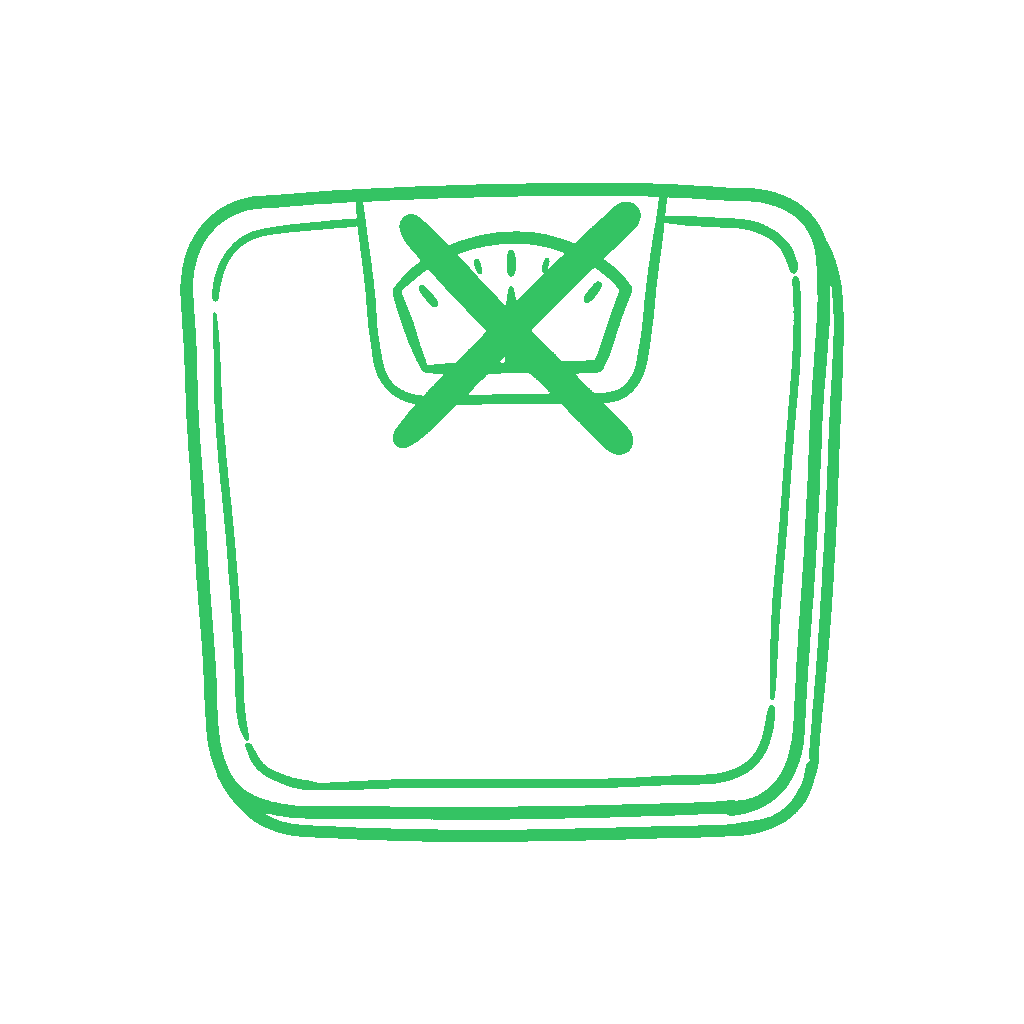
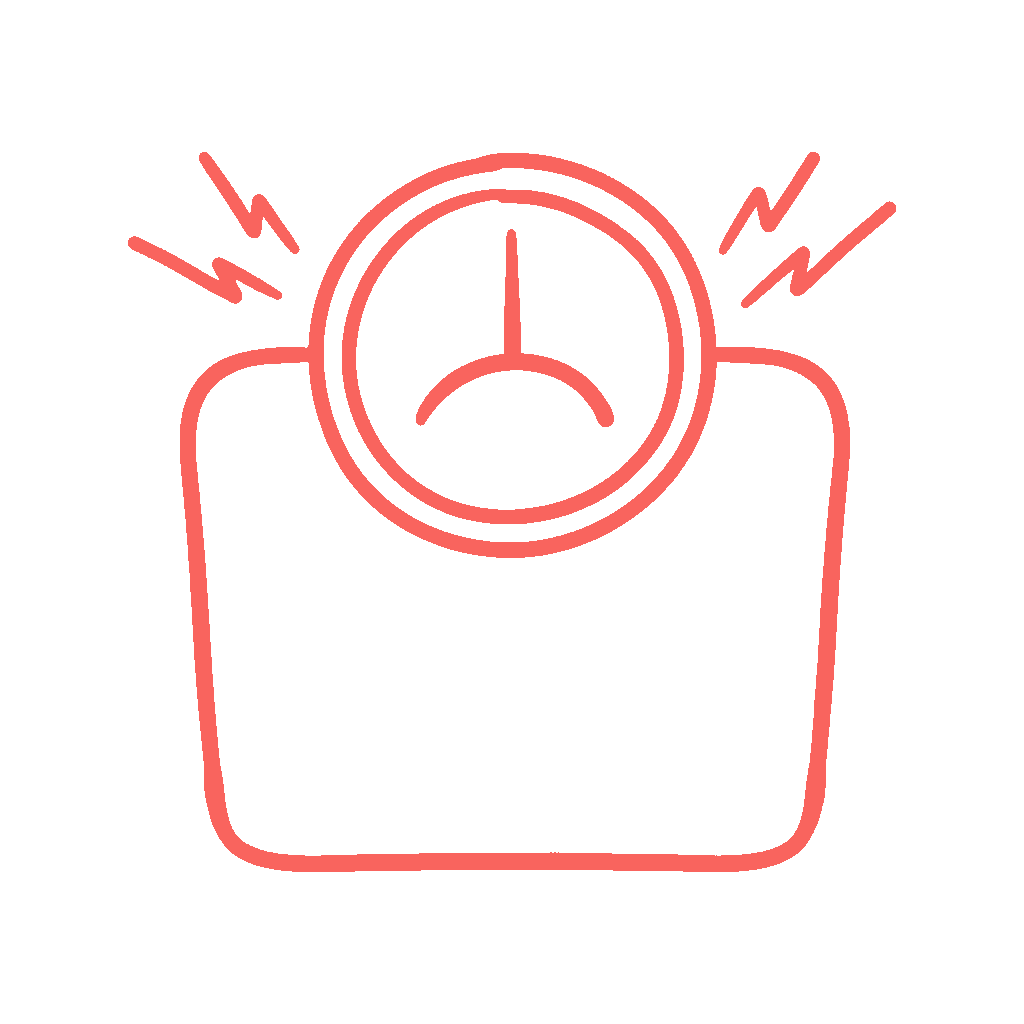
prompt color changes

Changed region(s): [[0.125, 0.125, 0.875, 0.875]]

diff --git a/dadfit/dadfit-content/Carousels/scripts/process_doodles.py b/dadfit/dadfit-content/Carousels/scripts/process_doodles.py
@@ -5,7 +5,8 @@ process_doodles.py — DadFit Doodle Post-Processor
 For every PNG in Carousels/data/batch_{batch_no}/doodles/:
   1. Detect background by sampling 10×10 pixels at all four corners
   2. Make every pixel within `threshold` color-distance of the bg → fully transparent
-  3. Recolor remaining (ink) pixels to brand green #34C363
+  3. Recolor remaining (ink) pixels to their median color (auto-detected)
+     — preserves green doodles as green, red/orange doodles as red/orange
 
 Usage:
   python3 process_doodles.py                          # batch 1
@@ -23,9 +24,8 @@ from PIL import Image
 
 # ── Config ────────────────────────────────────────────────────────────────────
 
-BRAND_GREEN  = (0x34, 0xC3, 0x63)   # #34C363
-SAMPLE_SIZE  = 10                    # corner sample area (pixels)
-DEFAULT_THRESHOLD = 30               # Euclidean RGB distance cutoff
+SAMPLE_SIZE       = 10   # corner sample area (pixels)
+DEFAULT_THRESHOLD = 30   # Euclidean RGB distance cutoff
 
 BASE_DIR = os.path.dirname(os.path.dirname(os.path.abspath(__file__)))  # Carousels/
 
@@ -50,9 +50,21 @@ def detect_bg_color(arr: np.ndarray) -> tuple:
 
 # ── Core processing ───────────────────────────────────────────────────────────
 
+def detect_ink_color(arr: np.ndarray, is_ink: np.ndarray) -> tuple:
+    """
+    Return the median RGB of all ink pixels as (r, g, b) ints.
+    Median is more robust than mean against anti-aliasing outliers.
+    """
+    ink_pixels = arr.astype(np.uint8)[is_ink]   # (n, 3)
+    r = int(np.median(ink_pixels[:, 0]))
+    g = int(np.median(ink_pixels[:, 1]))
+    b = int(np.median(ink_pixels[:, 2]))
+    return (r, g, b)
+
+
 def process_image(path: str, threshold: int, dry_run: bool = False) -> dict:
     """
-    Load image, remove background, recolor ink to brand green.
+    Load image, remove background, recolor ink to its own median color.
     Overwrites the original file as RGBA PNG.
     """
     img = Image.open(path).convert("RGB")
@@ -64,22 +76,26 @@ def process_image(path: str, threshold: int, dry_run: bool = False) -> dict:
     bg_arr = np.array(bg, dtype=np.float32)  # shape (3,)
 
     # 2. Euclidean distance of each pixel from background color
-    diff = arr - bg_arr                      # (h, w, 3)
+    diff = arr - bg_arr                        # (h, w, 3)
     dist = np.sqrt(np.sum(diff ** 2, axis=2))  # (h, w)
 
-    # 3. Build RGBA output
-    out = np.zeros((h, w, 4), dtype=np.uint8)
-
-    is_bg  = dist <= threshold               # True where pixel ≈ background
+    # 3. Classify pixels
+    is_bg  = dist <= threshold
     is_ink = ~is_bg
+
+    # 4. Auto-detect ink color from the minority (ink) pixels
+    ink_color = detect_ink_color(arr, is_ink)
+
+    # 5. Build RGBA output
+    out = np.zeros((h, w, 4), dtype=np.uint8)
 
     # Background → fully transparent
     out[is_bg, 3] = 0
 
-    # Ink → brand green, fully opaque
-    out[is_ink, 0] = BRAND_GREEN[0]
-    out[is_ink, 1] = BRAND_GREEN[1]
-    out[is_ink, 2] = BRAND_GREEN[2]
+    # Ink → detected ink color, fully opaque
+    out[is_ink, 0] = ink_color[0]
+    out[is_ink, 1] = ink_color[1]
+    out[is_ink, 2] = ink_color[2]
     out[is_ink, 3] = 255
 
     result = Image.fromarray(out, "RGBA")
@@ -87,12 +103,14 @@ def process_image(path: str, threshold: int, dry_run: bool = False) -> dict:
     ink_pixels   = int(is_ink.sum())
     total_pixels = h * w
     bg_hex       = "#{:02X}{:02X}{:02X}".format(*bg)
+    ink_hex      = "#{:02X}{:02X}{:02X}".format(*ink_color)
 
     if not dry_run:
         result.save(path)
 
     return {
         "bg_color":  bg_hex,
+        "ink_color": ink_hex,
         "ink_pct":   round(ink_pixels / total_pixels * 100, 1),
         "changed":   ink_pixels,
         "total":     total_pixels,
@@ -128,7 +146,7 @@ def main():
     print(f"  Folder    : {doodles_dir}")
     print(f"  Files     : {len(pngs)}")
     print(f"  Threshold : {args.threshold}")
-    print(f"  Ink color : #34C363 (brand green)")
+    print(f"  Ink color : auto-detected per image (minority color)")
     print(f"  Dry run   : {'YES (no files saved)' if args.dry_run else 'NO (files will be overwritten)'}")
     print()
 
@@ -138,7 +156,7 @@ def main():
         try:
             stats  = process_image(fpath, args.threshold, dry_run=args.dry_run)
             status = "DRY " if args.dry_run else "OK  "
-            print(f"  {status} {fname:20s}  bg={stats['bg_color']}  ink={stats['ink_pct']}%")
+            print(f"  {status} {fname:20s}  bg={stats['bg_color']}  ink={stats['ink_color']}  {stats['ink_pct']}%")
             ok += 1
         except Exception as e:
             print(f"  FAIL {fname}: {e}")

diff --git a/dadfit/dadfit-content/Carousels/skills/step8-slide-writer/SKILL.md b/dadfit/dadfit-content/Carousels/skills/step8-slide-writer/SKILL.md
@@ -393,9 +393,14 @@ For every slide **except H1** write one doodle prompt entry. These go in the `do
 ### Prompt guidelines
 
 - **Subject**: the single most concrete object or scene that visualises this slide's idea. Be specific ("a cracked hourglass", "a barbell with a tiny figure underneath"). No abstract nouns.
-- **Style**: flat hand-drawn ink-line illustration, `#34C363` green ink only, ~3–5px stroke, no shading, no fill, no gradients.
+- **Style**: flat hand-drawn ink-line illustration, single ink color only, ~3–5px stroke, no shading, no fill, no gradients.
 - **Framing**: subject fills 70–80% of canvas, centered, generous empty space.
-- **End every prompt** with exactly: `Pure black background #000000. Flat green line art, #34C363 ink. No fill. No shading. No text. No typography. DadFit doodle style.`
+- **Ink color — choose based on slide sentiment:**
+  - **Positive / neutral slides** (A-types, B-types, D-types, E-types, F-types, G-types, H-types): use `#34C363` green ink.
+  - **Negative / pain / danger slides** (Eg: C1, C3, C4): use `#FF6B6B` red ink. Based on the script's tone — if the slide is empathising with a struggle, use red to show it's a "pain point". 
+- **End every prompt** with the matching closing line:
+  - Green slides: `Pure black background #000000. Flat green line art, #34C363 ink. No fill. No shading. No text. No typography. DadFit doodle style.`
+  - Red slides (C1, C3, C4): `Pure black background #000000. Flat red line art, #FF6B6B ink. No fill. No shading. No text. No typography. DadFit doodle style.`
 
 ### Example prompts
 
